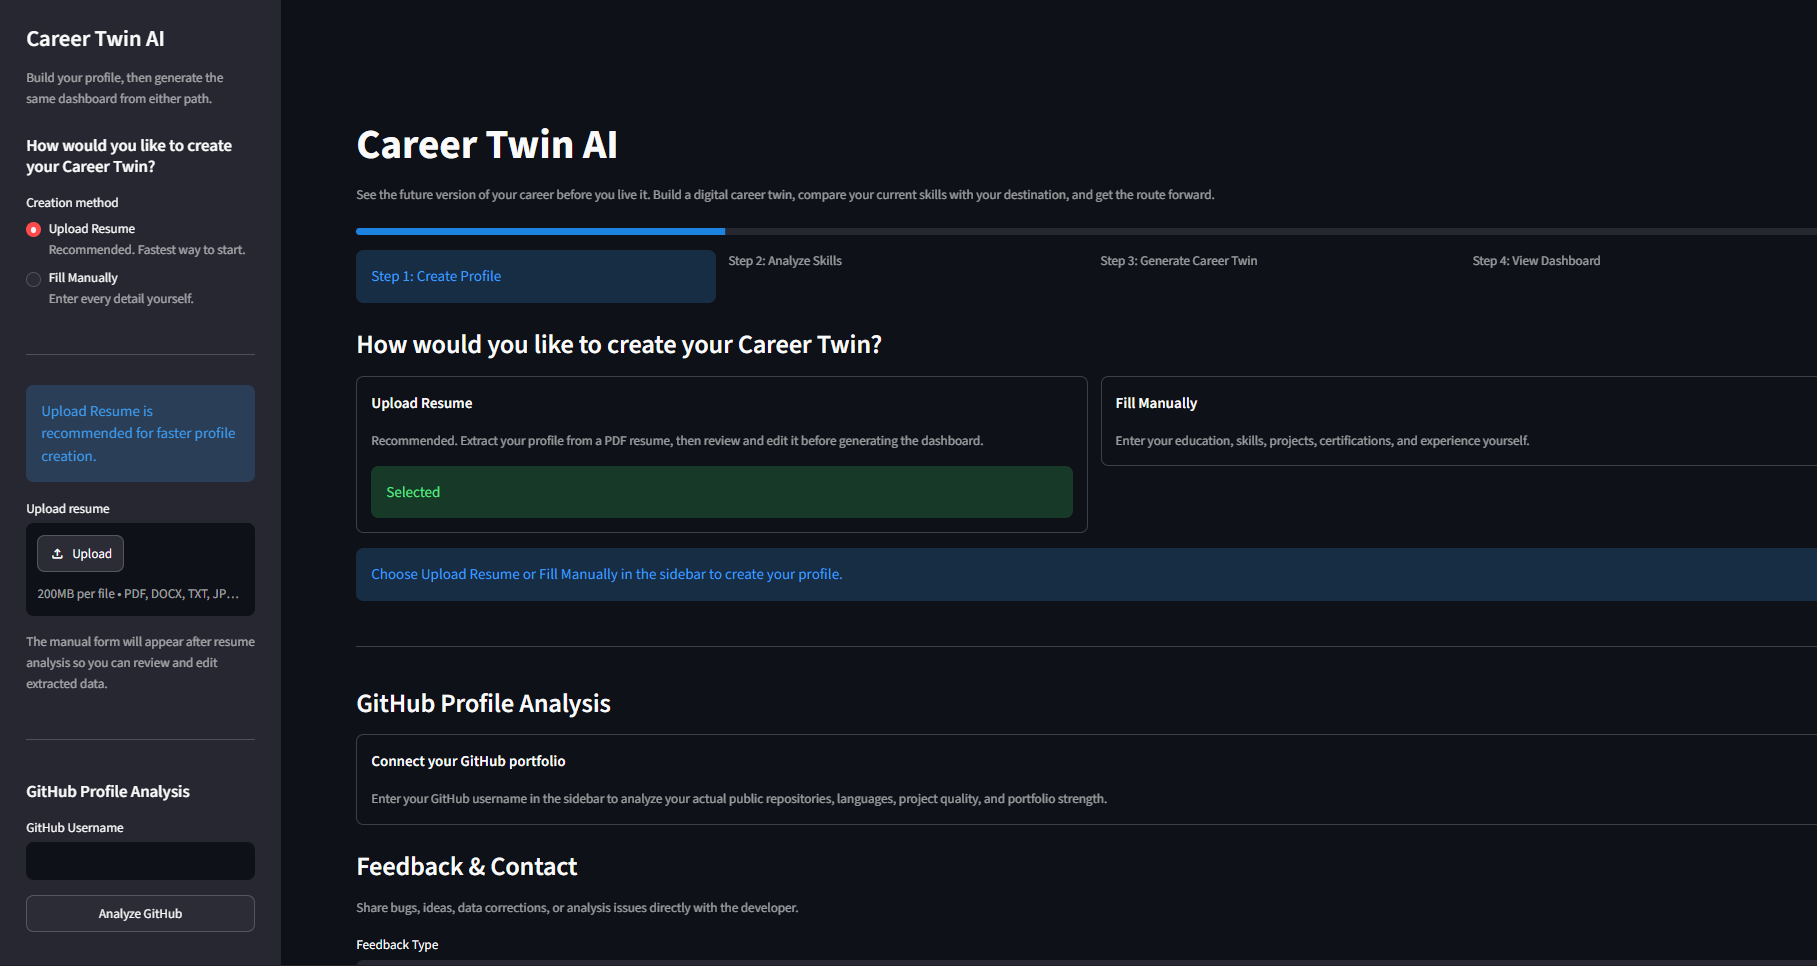
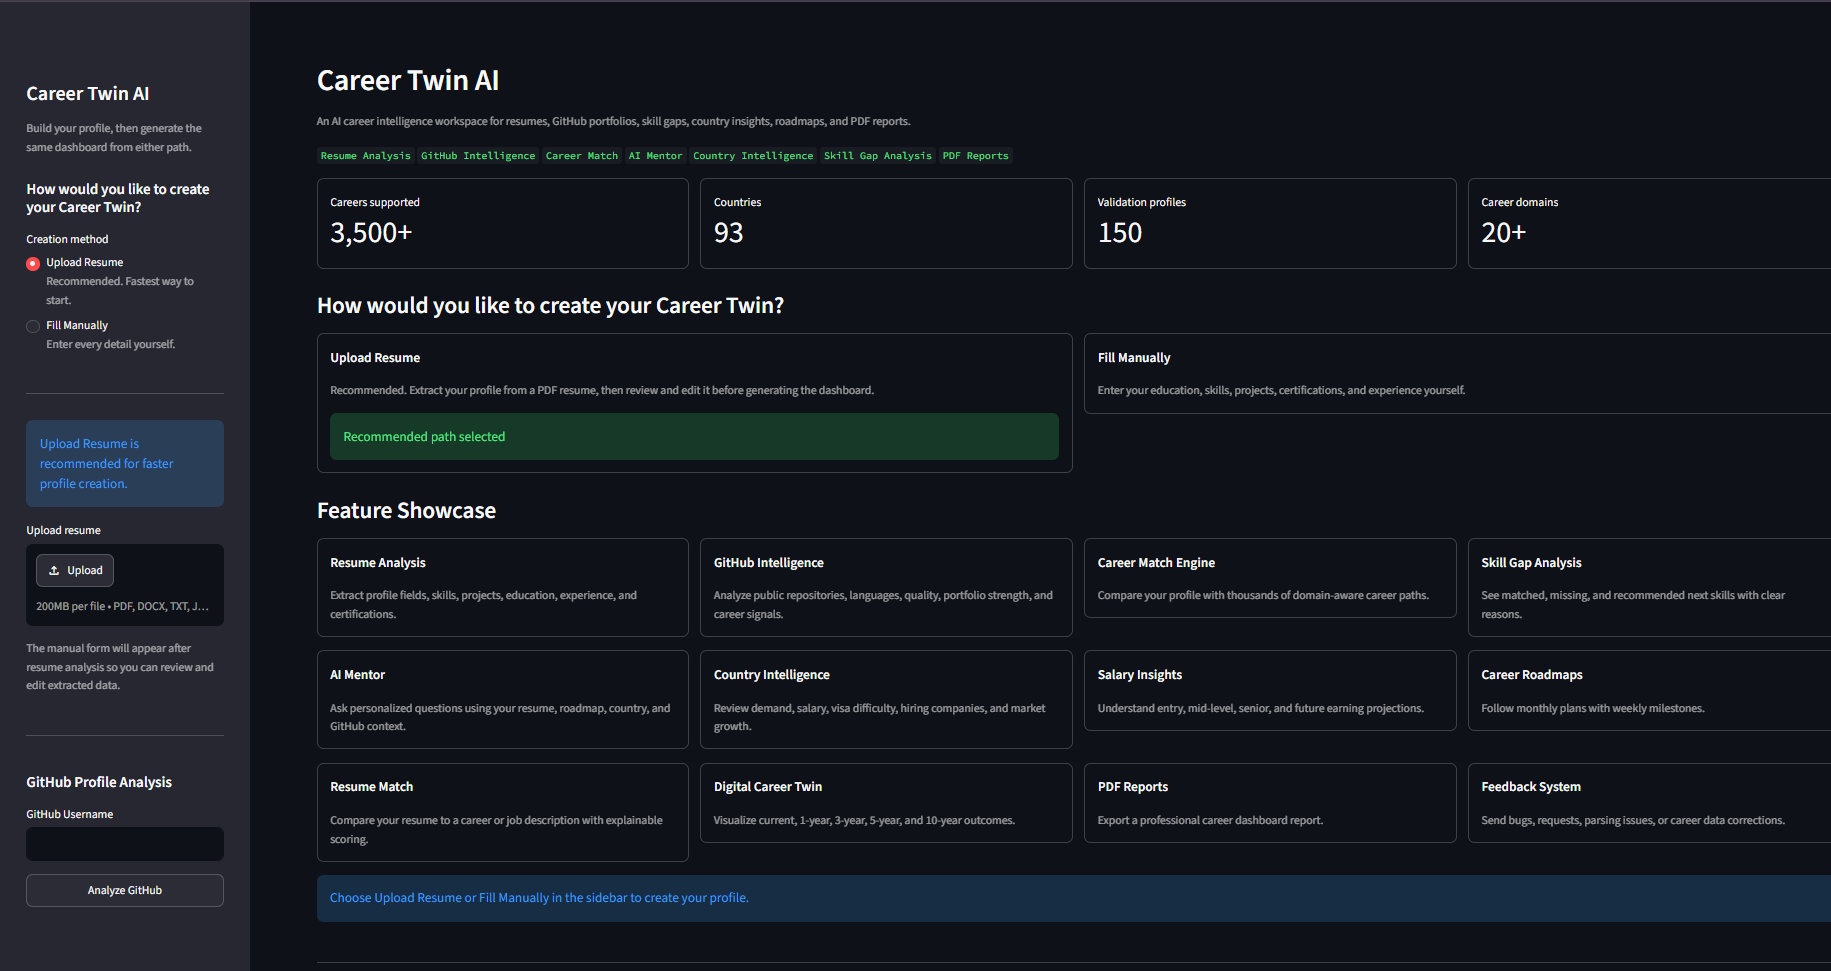
Add authenticated GitHub API support with PAT

Changed region(s): [[0.0, 0.0, 1.0, 1.0], [0.8013, 0.8075, 0.9862, 0.8696]]

diff --git a/services/github_analyzer.py b/services/github_analyzer.py
@@ -3,6 +3,7 @@ from __future__ import annotations
 from dataclasses import dataclass, field
 from datetime import datetime, timezone
 import math
+import os
 from typing import Any
 
 import requests
@@ -411,17 +412,17 @@ def repo_quality_score(repo: GitHubRepoSummary) -> int:
         score += min(12, 5 + len(repo.description) // 22)
     if repo.topics:
         score += min(len(repo.topics), 6) * 2
-    score += min(20, round(math.log10(repo.stars + 1) * 7))
-    score += min(10, round(math.log10(repo.forks + 1) * 4))
-    score += min(4, round(math.log10(repo.watchers + 1) * 2))
+    score += min(14, round(math.log10(repo.stars + 1) * 7))
+    score += min(6, round(math.log10(repo.forks + 1) * 4))
+    score += min(2, round(math.log10(repo.watchers + 1) * 2))
     score += max(0, 9 - min(repo.open_issues, 40) // 5)
-    score += min(8, round(math.log10(repo.size_kb + 1) * 2)) if repo.size_kb else 0
-    score += 7 if repo.has_readme_signal else 0
-    score += 4 if repo.has_license else 0
-    score += 3 if repo.has_releases_signal else 0
+    score += min(6, round(math.log10(repo.size_kb + 1) * 2)) if repo.size_kb else 0
+    score += 4 if repo.has_readme_signal else 0
+    score += 3 if repo.has_license else 0
+    score += 2 if repo.has_releases_signal else 0
     score += min(14, LANGUAGE_COMPLEXITY.get(repo.language, 8))
     if repo.project_type != "General":
-        score += 5
+        score += 3
     if repo.updated_at:
         age = days_since(repo.updated_at)
         if age <= 30: